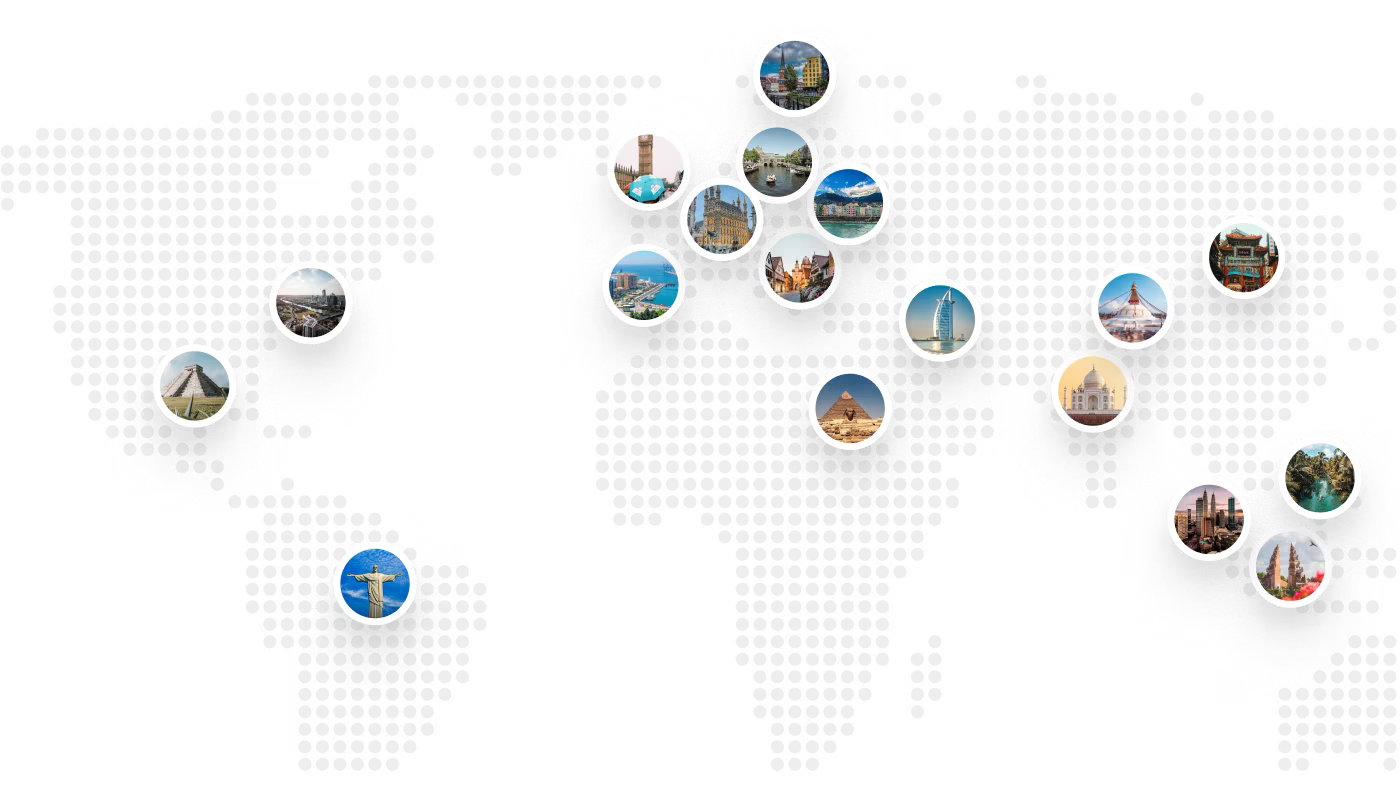
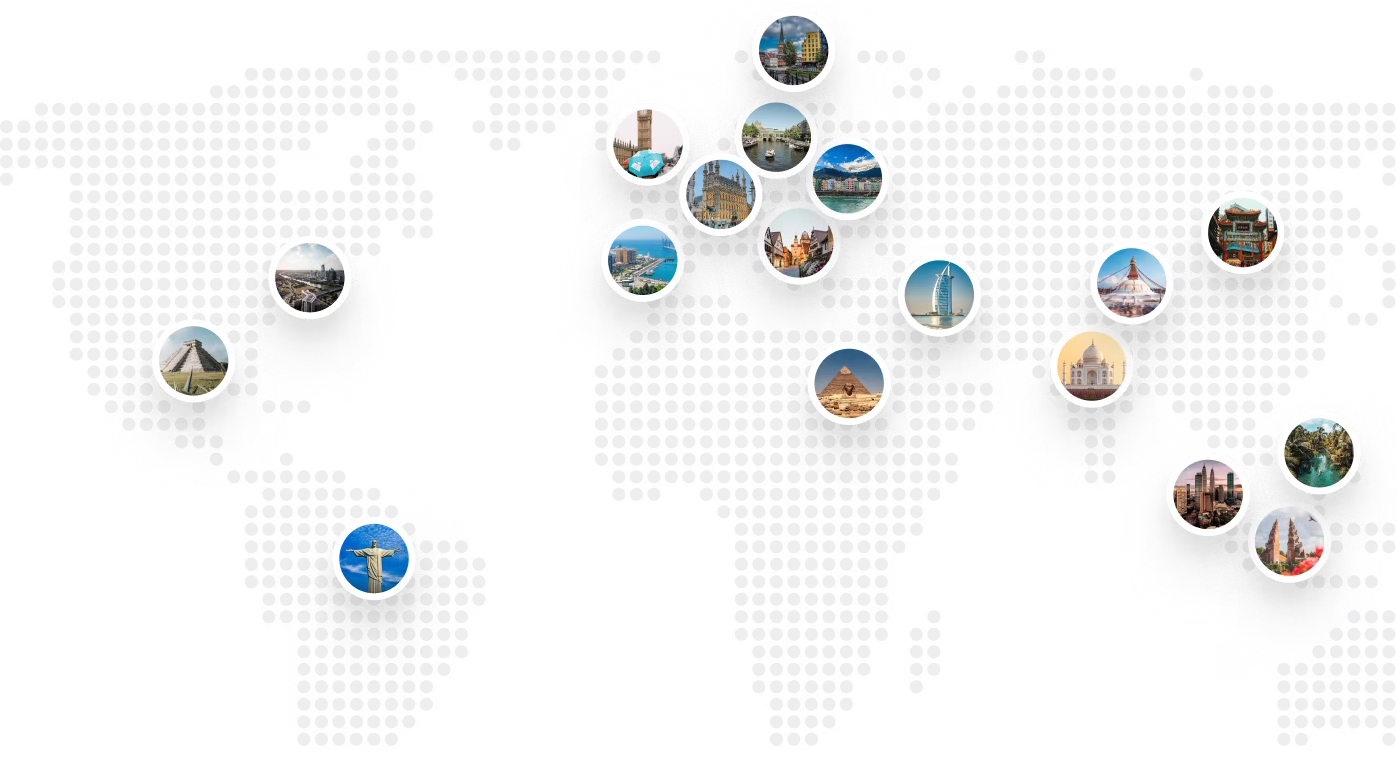
map section complete

diff --git a/app/src/components/Home/CountryBranches.tsx b/app/src/components/Home/CountryBranches.tsx
@@ -1,13 +1,82 @@
 import React from "react";
 import { map } from "../../images";
 
+import { Link } from "react-router-dom";
+
 const CountryBranches = () => {
   return (
-    <div className="bg-[#f3f5f7] py-10 flex bg-blend-color-burn">
-      <img src={map} alt="" className="w-1/2 " />
-      <div className="w-1/2">akhdaukgb</div>
+    <div className="bg-[#f3f5f7] py-10 flex gap-16 items-center">
+      <img src={map} alt="" className="w-1/2 object-contain" />
+      <div className="w-1/2 flex flex-col gap-y-10">
+        <h1 className="text-2xl font-semibold">
+          There's an OYO around. Always.
+        </h1>
+        <p className="text-gray-400">
+          More Destinations. More Ease. More Affordable.
+        </p>
+        <div className="flex gap-9 items-center">
+          <div className="flex flex-col gap-y-1">
+            <h1 className="text-4xl font-semibold">35+</h1>
+            <p className="text-gray-400 text-sm">Countries</p>
+          </div>
+          <div className="h-[65px] w-[1px] bg-gray-400 rotate-[30deg]"></div>
+          <div className="flex flex-col gap-y-1">
+            <h1 className="text-4xl font-semibold">174,000+</h1>
+            <p className="text-gray-400 text-sm">Hotels & Homes</p>
+          </div>
+        </div>
+        <div className="grid grid-cols-3 gap-y-6">
+          {countryData?.map((item) => (
+            <Link to={item?.link} key={item?.id}>
+              <div className="flex items-center gap-3 font-medium tracking-wide">
+                <div className={`h-2 w-2 rounded-full ${item?.color}`}></div>
+                <p>{item?.title}</p>
+              </div>
+            </Link>
+          ))}
+        </div>
+      </div>
     </div>
   );
 };
 
 export default CountryBranches;
+
+const countryData = [
+  {
+    id: 1,
+    title: "Indonesia",
+    link: "https://www.oyorooms.com/id/",
+    color: "bg-green-500",
+  },
+  {
+    id: 2,
+    title: "Malaysia",
+    link: "https://www.oyorooms.com/my/",
+    color: "bg-red-500",
+  },
+  {
+    id: 3,
+    title: "Denmark",
+    link: "https://www.dancenter.dk/",
+    color: "bg-yellow-600",
+  },
+  {
+    id: 4,
+    title: "US",
+    link: "https://www.oyorooms.com/us/",
+    color: "bg-sky-600",
+  },
+  {
+    id: 5,
+    title: "UK",
+    link: "https://www.belvilla.co.uk/",
+    color: "bg-pink-500",
+  },
+  {
+    id: 6,
+    title: "Netherlands",
+    link: "https://www.belvilla.nl/",
+    color: "bg-blue-500",
+  },
+];

diff --git a/app/src/components/Home/BannerSection.tsx b/app/src/components/Home/BannerSection.tsx
@@ -19,14 +19,14 @@ const BannerSection = () => {
           </div>
         </div>
         <div className="flex items-center gap-3">
-          <fieldset className="border rounded-sm pb-2 pt-1 px-3 ">
-            <legend className="text-xs font-medium text-gray-400 px-1 ">
+          <fieldset className="border border-gray-400 rounded-sm pb-2 pt-1 px-3 ">
+            <legend className="text-xs font-medium text-gray-500 px-1 ">
               Your email
             </legend>
             <input
               type="text"
               placeholder="e.g, john@email.com"
-              className="border-none outline-none py-1"
+              className="border-none outline-none py-1 w-[300px]"
             />
           </fieldset>
           <button className="bg-[#ee2a24] w-full text-sm h-[50px]  px-8 rounded-lg text-white font-semibold">

diff --git a/app/src/components/Home/SearchSection.tsx b/app/src/components/Home/SearchSection.tsx
@@ -124,7 +124,7 @@ const SearchSection = () => {
               defaultValue={[currentDate, tomorrowDate]}
               renderExtraFooter={() => ""}
               className="ant-picker"
-              onChange={handleDateRangeChange}
+              // onChange={handleDateRangeChange}
             />
           </Space>
         </div>
